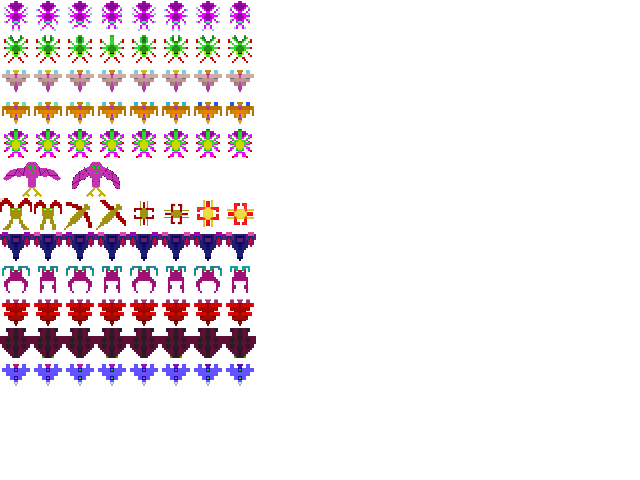
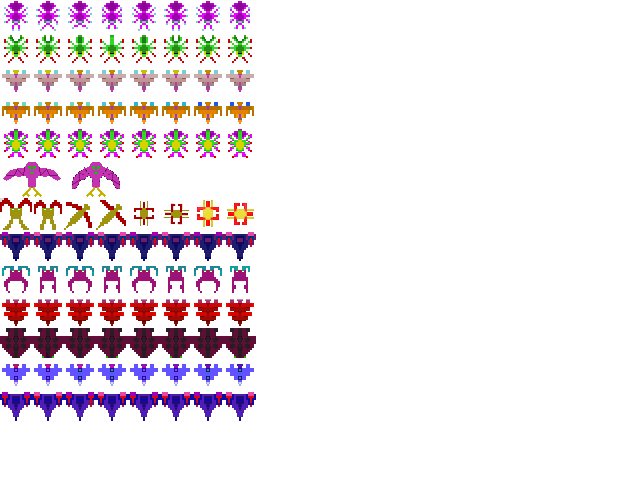
Add files via upload

Changed region(s): [[0.0, 0.8125, 0.4062, 0.875]]

diff --git a/src/game.js b/src/game.js
@@ -112,7 +112,7 @@ export default class Game {
         if (Date.now() - this.lastPlayerBulletTimeStamp > 300) {
           this.bulletPool.push(
             new Bullet(
-              entity.position.x + (entity.width / 2) - 2, // 2 meaning half of bullet width
+              entity.position.x + entity.width / 2 - 2, // 2 meaning half of bullet width
               entity.position.y,
               this.playerBulletSpeed, // speed of player bullets
               entity.bulletImage
@@ -692,12 +692,7 @@ export default class Game {
             enemy.movement += 1;
           }
         } else if (enemy.movement === 2) {
-          enemy.moveTo(
-            enemy.start.x,
-            enemy.start.y + 75,
-            delta,
-            delta * 3
-          );
+          enemy.moveTo(enemy.start.x, enemy.start.y + 75, delta, delta * 3);
 
           /*enemy.moveTo(
             300 * Math.sin(Date.now() * 0.002) + enemy.start.x,
@@ -706,7 +701,7 @@ export default class Game {
             delta / 2
           );*/
 
-          if (enemy.position.y < enemy.start.y+77) {
+          if (enemy.position.y < enemy.start.y + 77) {
             enemy.movement = 0;
           }
         }
@@ -975,6 +970,12 @@ export default class Game {
           //enemy.movement += 1;
         }
       } else if (enemy.enemyType === 13) {
+        if (
+          Math.random() > 0.65 &&
+          Math.abs(enemy.position.x - this.player.position.x) < 40
+        ) {
+          this.shootBullet(enemy);
+        }
         if (enemy.movement === 0) {
           enemy.angle -= 0.45;
           if (enemy.position.y > this.screenHeight) {
@@ -1032,37 +1033,35 @@ export default class Game {
           //enemy.movement += 1;
         }
       } else if (enemy.enemyType === 14) {
-          
-          if (enemy.movement === 0) {
-            enemy.angle -= 0.15;
-            if (enemy.position.y < -50) {
-              enemy.angle = 260;
-              enemy.movement += 1;
-            }
-          } else if (enemy.movement === 1) {
-            enemy.angle += 0.1;
-            if (enemy.position.y > this.screenHeight+100) {
-              enemy.angle =110;
-  
-              enemy.movement += 1;
-            }
-          } else if (enemy.movement === 2) {
-            //enemy.angle -= 0.2;
-            if (enemy.position.y < 0) {
-              enemy.angle = 250;
-  
-              enemy.movement += 1;
-            }
-          } else if (enemy.movement === 3) {
-            if (enemy.position.y > this.screenHeight) {
-              
-              enemy.movement = 0;
-              enemy.angle = 180;
-              enemy.position.x = enemy.start.x;
-              enemy.position.y = enemy.start.y;
-            } 
+        if (enemy.movement === 0) {
+          enemy.angle -= 0.15;
+          if (enemy.position.y < -50) {
+            enemy.angle = 260;
+            enemy.movement += 1;
           }
-        
+        } else if (enemy.movement === 1) {
+          enemy.angle += 0.1;
+          if (enemy.position.y > this.screenHeight + 100) {
+            enemy.angle = 110;
+
+            enemy.movement += 1;
+          }
+        } else if (enemy.movement === 2) {
+          //enemy.angle -= 0.2;
+          if (enemy.position.y < 0) {
+            enemy.angle = 250;
+
+            enemy.movement += 1;
+          }
+        } else if (enemy.movement === 3) {
+          if (enemy.position.y > this.screenHeight) {
+            enemy.movement = 0;
+            enemy.angle = 180;
+            enemy.position.x = enemy.start.x;
+            enemy.position.y = enemy.start.y;
+          }
+        }
+
         enemy.speed.x = -5 * Math.cos((enemy.angle * Math.PI) / 180);
         enemy.speed.y = -5 * Math.sin((enemy.angle * Math.PI) / 180);
         enemy.position.x = enemy.position.x + enemy.speed.x;

diff --git a/src/enemy.js b/src/enemy.js
@@ -66,7 +66,7 @@ export default class Enemy {
     } else if (this.enemyType === 12) {
       this.sourceY = 232;
     } else if (this.enemyType === 13) {
-      this.sourceY = 232;
+      this.sourceY = 392;
     } else if (this.enemyType === 14) {
       this.sourceY = 232;
     }
